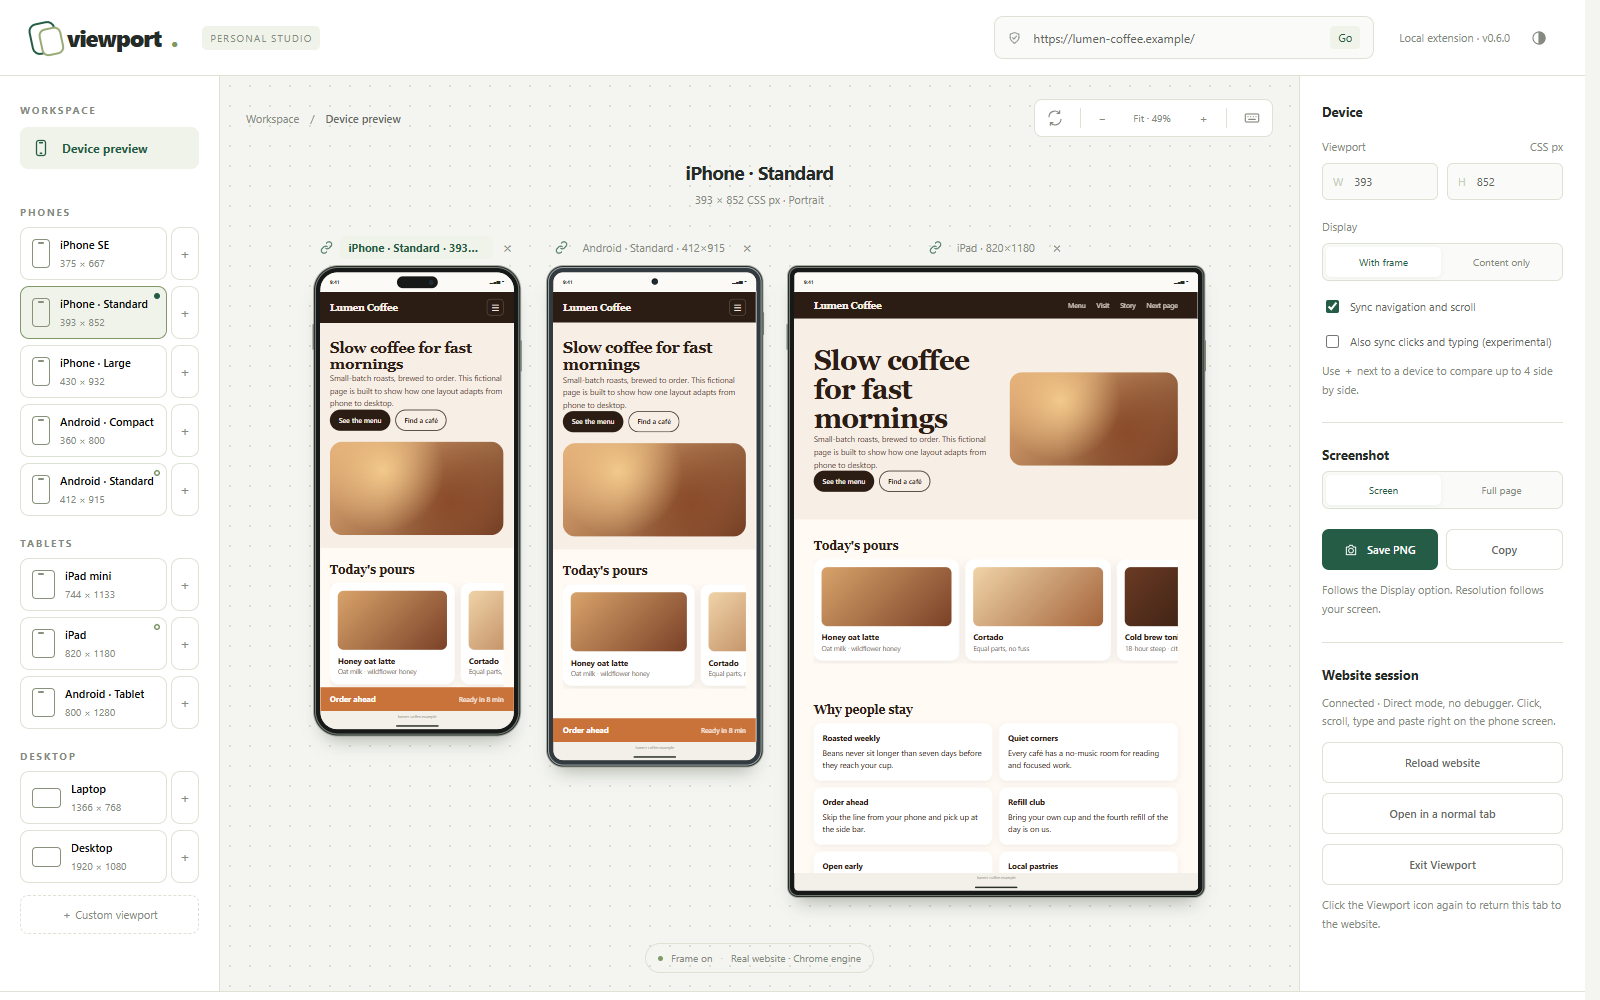
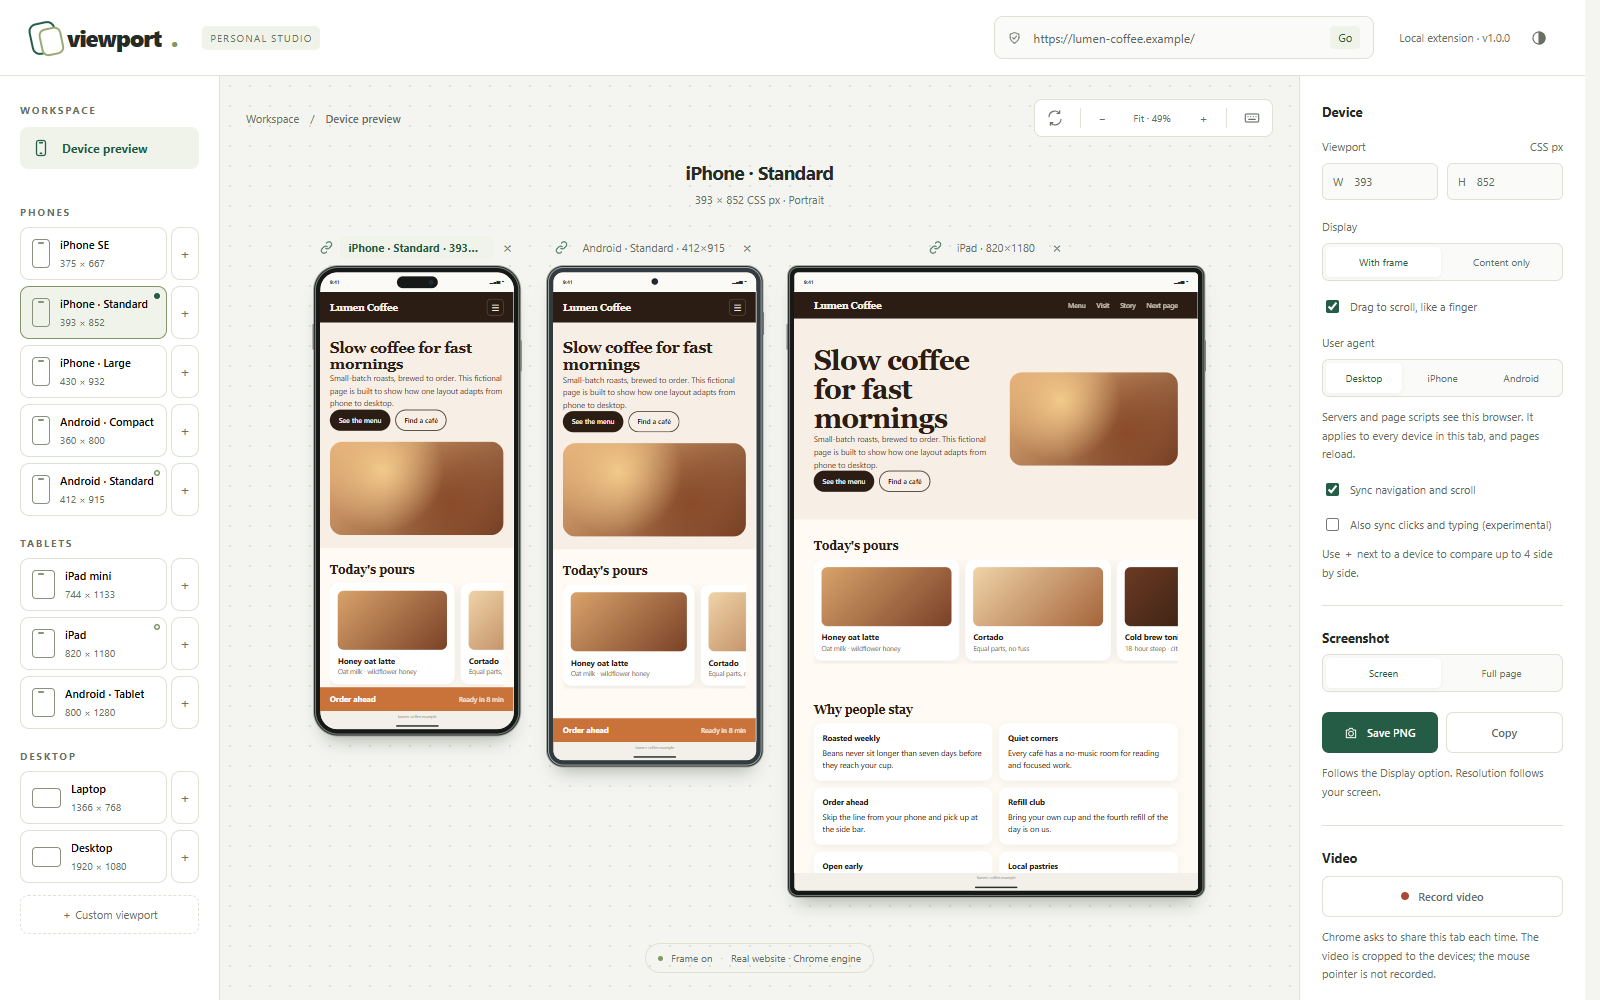
Viewport 1.0.0: review fixes, accessibility, docs

Changed region(s): [[0.8125, 0.341, 0.9688, 0.992], [0.8438, 0.279, 0.9062, 0.31], [0.8125, 0.837, 0.8438, 0.868]]

diff --git a/extension/studio.css b/extension/studio.css
@@ -1,8 +1,8 @@
 /* Theme tokens. Auto follows the system; Studio can force light or dark via data-theme. */
-:root{--bg:#f4f5f1;--panel:#fff;--glass:#ffffffb3;--field:#fafbf8;--soft:#f0f3e9;--line-base:#e4e7df;--line:#dce2d4;--dots:#d9ded1;--faint:#c5cdbb;--muted:#858a80;--muted-base:#858a80;--text-2:#5f675d;--text-base:#252b27;--green-ink:#245c45;--danger:#ac4836;--accent:#81976a;--icon:#87917c;color-scheme:light}
+:root{--bg:#f4f5f1;--panel:#fff;--glass:#ffffffb3;--field:#fafbf8;--soft:#f0f3e9;--line-base:#e4e7df;--line:#dce2d4;--dots:#d9ded1;--faint:#c5cdbb;--muted:#687064;--muted-base:#687064;--text-2:#5f675d;--text-base:#252b27;--green-ink:#245c45;--danger:#ac4836;--accent:#81976a;--icon:#87917c;color-scheme:light}
 @media(prefers-color-scheme:dark){:root:not([data-theme=light]){--bg:#131715;--panel:#1b201d;--glass:#1b201db3;--field:#202622;--soft:#26302a;--line-base:#2c3430;--line:#343d37;--dots:#29302c;--faint:#58625a;--muted:#8f998a;--muted-base:#8f998a;--text-2:#b9c3b2;--text-base:#e5eae1;--green-ink:#9ccfaa;--danger:#ef8a74;--accent:#7f9f69;--icon:#8d9786;color-scheme:dark}}
 :root[data-theme=dark]{--bg:#131715;--panel:#1b201d;--glass:#1b201db3;--field:#202622;--soft:#26302a;--line-base:#2c3430;--line:#343d37;--dots:#29302c;--faint:#58625a;--muted:#8f998a;--muted-base:#8f998a;--text-2:#b9c3b2;--text-base:#e5eae1;--green-ink:#9ccfaa;--danger:#ef8a74;--accent:#7f9f69;--icon:#8d9786;color-scheme:dark}
-:root{font-family:system-ui,-apple-system,'Segoe UI',Roboto,sans-serif;color:var(--text-base);background:var(--bg);font-synthesis:none;--green:#245c45}*{box-sizing:border-box}body{margin:0}button,input,select{font:inherit}button,select{cursor:pointer}button{border:0}button:focus-visible,select:focus-visible,input:focus-visible{outline:3px solid #8dac69;outline-offset:3px}button:disabled{opacity:.45;cursor:not-allowed}.app{min-height:100vh;display:grid;grid-template-rows:76px 1fr 38px}header{display:flex;align-items:center;padding:0 30px;gap:25px;background:var(--panel);border-bottom:1px solid var(--line)}.brand{font-size:23px;font-weight:800;letter-spacing:-1px;display:flex;align-items:center;gap:10px}.mark{width:27px;height:32px;border:2px solid var(--green-ink);border-radius:8px;transform:rotate(-12deg);position:relative}.mark:after{content:'';position:absolute;inset:5px -7px -5px 7px;border:2px solid #99aa75;border-radius:7px;background:var(--panel);z-index:-1}.tag{font-size:10px;text-transform:uppercase;letter-spacing:1.1px;padding:5px 8px;border-radius:5px;background:var(--soft);color:var(--muted);white-space:nowrap}.address{margin-left:auto;display:flex;align-items:center;gap:10px;border:1px solid var(--line);border-radius:9px;background:var(--field);padding:9px 13px;width:380px;color:var(--muted)}.address input{border:0;background:transparent;min-width:0;width:100%;outline:none;color:var(--text-2);font-size:12px}.top-note{font-size:11px;color:var(--muted)}main{display:grid;grid-template-columns:220px minmax(380px,1fr) 286px}.sidebar,.inspector{background:var(--panel);padding:27px 20px}.sidebar{border-right:1px solid var(--line)}.eyebrow{font-size:10px;font-weight:700;letter-spacing:1.8px;color:var(--muted);text-transform:uppercase}.navitem{display:flex;align-items:center;gap:12px;width:100%;padding:12px;margin-top:10px;text-align:left;border-radius:8px;background:transparent;color:var(--muted);font-size:12px}.navitem.active{background:var(--soft);color:var(--green-ink);font-weight:700}.navitem svg{width:18px;height:18px}.section{margin-top:36px}.devices{display:grid;gap:9px;margin-top:15px}.device{display:flex;gap:12px;align-items:center;padding:9px 11px;border:1px solid var(--line);background:var(--panel);border-radius:9px;text-align:left}.device.selected{border-color:var(--accent);background:var(--soft);box-shadow:0 0 0 1px var(--accent)33}.device-icon{border:1.5px solid var(--icon);border-radius:4px;width:18px;height:29px;position:relative}.device-icon:before{content:'';position:absolute;width:6px;height:2px;background:var(--icon);top:2px;left:4.5px;border-radius:2px}.device b{font-size:11px;font-weight:600;display:block}.device small{font-size:10px;color:var(--muted);display:block;margin-top:4px}.device.selected:after,.device.in-use:after{content:'';position:absolute;top:6px;right:6px;width:6px;height:6px;border-radius:50%;background:var(--green-ink)}.device.in-use:after{background:transparent;box-shadow:inset 0 0 0 1.5px var(--accent)}.custom{background:var(--panel);border:1px dashed var(--line);border-radius:8px;width:100%;padding:11px;color:var(--muted);font-size:11px;margin-top:12px}.canvas{position:relative;overflow:hidden;background:radial-gradient(circle,var(--dots) 1px,transparent 1px);background-size:20px 20px;display:flex;flex-direction:column;align-items:center;padding:23px 26px 18px}.canvas-head{width:100%;display:flex;align-items:center;justify-content:space-between;gap:12px}.breadcrumbs{font-size:11px;color:var(--muted)}.breadcrumbs b{color:var(--text-2);font-weight:500}.view-controls{display:flex;gap:5px;background:var(--panel);padding:4px;border:1px solid var(--line);border-radius:8px}.icon-btn{background:transparent;border-radius:5px;color:var(--muted);padding:6px 8px;display:flex;align-items:center;gap:6px;font-size:11px}.icon-btn:hover{background:var(--soft)}svg{width:16px;height:16px;fill:none;stroke:currentColor;stroke-width:1.7;stroke-linecap:round;stroke-linejoin:round}.canvas-title{margin:22px 0 0;text-align:center}.canvas-title h1{font-size:19px;letter-spacing:-.6px;margin:0;font-weight:700}.canvas-title p{font-size:11px;color:var(--muted);margin:7px 0 14px}.phone-space{flex:1;display:flex;align-items:center;justify-content:center;width:100%;min-height:575px}.phone{width:288px;height:574px;border-radius:47px;background:#161918;border:2px solid #737a72;padding:9px;box-shadow:0 0 0 2px #272c29,0 0 0 4px #a5aaa1,0 26px 38px -17px #39413066;position:relative;transition:width .25s,height .25s,transform .25s;flex-shrink:0}.phone:before{content:'';position:absolute;left:-7px;top:114px;width:3px;height:52px;border-radius:3px;background:#71796c}.phone:after{content:'';position:absolute;right:-7px;top:147px;width:3px;height:63px;border-radius:3px;background:#71796c}.screen{height:100%;border-radius:35px;background:#fcfaf6;overflow:hidden;position:relative;display:flex;flex-direction:column}.statusbar{height:39px;flex-shrink:0;padding:12px 19px 0;display:flex;justify-content:space-between;align-items:flex-start;font-size:10px;font-weight:700;background:#fcfaf6;position:relative}.island{position:absolute;top:8px;left:50%;transform:translateX(-50%);width:83px;height:24px;background:#161918;border-radius:20px}.island:after{content:'';position:absolute;right:9px;top:8px;width:7px;height:7px;background:#1c2a37;border-radius:50%;border:1px solid #29343b}.site{overflow:auto;flex:1;scrollbar-width:none}.site::-webkit-scrollbar{display:none}.browserbar{height:37px;background:#f2f0e9;padding:5px 23px 10px;flex-shrink:0;text-align:center;font-size:8px;color:#93958a;position:relative}.browserbar:after{position:absolute;content:'';width:86px;height:3px;background:#272e26;border-radius:5px;bottom:5px;left:50%;transform:translateX(-50%)}.phone.landscape{width:510px;height:285px}.phone.landscape .island{width:65px}.canvas-foot{display:flex;align-items:center;gap:8px;font-size:10px;color:var(--muted);margin-top:17px;background:var(--panel)fffb3;padding:7px 12px;border:1px solid var(--line);border-radius:20px}.live-dot{width:5px;height:5px;border-radius:50%;background:#7e9b66}.inspector{border-left:1px solid var(--line);padding:27px 22px}.panel-title{font-size:13px;font-weight:700;margin:0 0 8px}.divider{height:1px;background:var(--line);margin:23px 0}.field-label{font-size:11px;color:var(--muted);display:flex;justify-content:space-between;margin:19px 0 9px}.field-row{display:flex;gap:9px}.field{background:var(--field);border:1px solid var(--line);border-radius:6px;display:flex;align-items:center;gap:9px;padding:9px 10px;min-width:0;flex:1;font-size:11px;color:var(--faint)}.field input{width:100%;min-width:0;border:0;background:none;font-size:11px;color:var(--text-2)}.segment{display:flex;padding:3px;border:1px solid var(--line);border-radius:7px;background:var(--field);gap:3px}.segment button{flex:1;padding:8px 4px;font-size:10px;color:var(--muted);background:transparent;border-radius:5px}.segment button.chosen{background:var(--panel);box-shadow:0 1px 4px #35402512;color:var(--green-ink)}.action{display:flex;align-items:center;justify-content:center;gap:9px;width:100%;padding:12px;border-radius:7px;font-size:11px;font-weight:600;margin-top:10px}.action.primary{background:var(--green);color:#fff}.action.secondary{background:var(--panel);border:1px solid var(--line);color:var(--text-2)}footer{background:var(--panel);border-top:1px solid var(--line);display:flex;align-items:center;justify-content:space-between;padding:0 25px;font-size:10px;color:var(--muted)}.footer-left{display:flex;align-items:center;gap:8px}.plain{background:transparent;border:0;box-shadow:none;padding:0;border-radius:0}.plain:before,.plain:after,.plain .statusbar,.plain .browserbar{display:none}.plain .screen{border-radius:0}@media(max-width:1100px){main{grid-template-columns:185px minmax(330px,1fr) 250px}.sidebar,.inspector{padding:24px 15px}header{padding:0 20px}.top-note{display:none}.canvas{padding:20px 16px}.breadcrumbs{display:none}.canvas-head{justify-content:center}.phone.landscape{width:340px}}@media(max-width:800px){main{grid-template-columns:1fr 250px}.sidebar{display:none}.address{width:250px}.tag{display:none}.brand{font-size:20px}.canvas-title h1{font-size:16px}}@media(max-width:600px){main{display:flex;flex-direction:column}.inspector{border-left:0;border-top:1px solid var(--line)}header{height:auto;min-height:76px;flex-wrap:wrap;padding:15px;gap:12px}.app{grid-template-rows:auto 1fr 45px}.address{width:auto;flex:1}.canvas{padding:20px}.canvas-title{margin-top:17px}.inspector{padding:25px}.inspector .divider{margin:18px 0}footer{padding:0 12px;font-size:9px;gap:12px}.footer-right{display:none}}@media(prefers-reduced-motion:reduce){*{animation:none!important;transition:none!important}}
+:root{font-family:system-ui,-apple-system,'Segoe UI',Roboto,sans-serif;color:var(--text-base);background:var(--bg);font-synthesis:none;--green:#245c45}*{box-sizing:border-box}body{margin:0}button,input,select{font:inherit}button,select{cursor:pointer}button{border:0}button:focus-visible,select:focus-visible,input:focus-visible{outline:3px solid #8dac69;outline-offset:3px}button:disabled{opacity:.45;cursor:not-allowed}.app{min-height:100vh;display:grid;grid-template-rows:76px 1fr 38px}header{display:flex;align-items:center;padding:0 30px;gap:25px;background:var(--panel);border-bottom:1px solid var(--line)}.brand{font-size:23px;font-weight:800;letter-spacing:-1px;display:flex;align-items:center;gap:10px}.mark{width:27px;height:32px;border:2px solid var(--green-ink);border-radius:8px;transform:rotate(-12deg);position:relative}.mark:after{content:'';position:absolute;inset:5px -7px -5px 7px;border:2px solid #99aa75;border-radius:7px;background:var(--panel);z-index:-1}.tag{font-size:10px;text-transform:uppercase;letter-spacing:1.1px;padding:5px 8px;border-radius:5px;background:var(--soft);color:var(--muted);white-space:nowrap}.address{margin-left:auto;display:flex;align-items:center;gap:10px;border:1px solid var(--line);border-radius:9px;background:var(--field);padding:9px 13px;width:380px;color:var(--muted)}.address input{border:0;background:transparent;min-width:0;width:100%;outline:none;color:var(--text-2);font-size:12px}.top-note{font-size:11px;color:var(--muted)}main{display:grid;grid-template-columns:220px minmax(380px,1fr) 286px}.sidebar,.inspector{background:var(--panel);padding:27px 20px}.sidebar{border-right:1px solid var(--line)}.eyebrow{font-size:10px;font-weight:700;letter-spacing:1.8px;color:var(--muted);text-transform:uppercase}.navitem{display:flex;align-items:center;gap:12px;width:100%;padding:12px;margin-top:10px;text-align:left;border-radius:8px;background:transparent;color:var(--muted);font-size:12px}.navitem.active{background:var(--soft);color:var(--green-ink);font-weight:700}.navitem svg{width:18px;height:18px}.section{margin-top:36px}.devices{display:grid;gap:9px;margin-top:15px}.device{display:flex;gap:12px;align-items:center;padding:9px 11px;border:1px solid var(--line);background:var(--panel);border-radius:9px;text-align:left}.device.selected{border-color:var(--accent);background:var(--soft);box-shadow:0 0 0 1px var(--accent)33}.device-icon{border:1.5px solid var(--icon);border-radius:4px;width:18px;height:29px;position:relative}.device-icon:before{content:'';position:absolute;width:6px;height:2px;background:var(--icon);top:2px;left:4.5px;border-radius:2px}.device b{font-size:11px;font-weight:600;display:block}.device small{font-size:10px;color:var(--muted);display:block;margin-top:4px}.device.selected:after,.device.in-use:after{content:'';position:absolute;top:6px;right:6px;width:6px;height:6px;border-radius:50%;background:var(--green-ink)}.device.in-use:after{background:transparent;box-shadow:inset 0 0 0 1.5px var(--accent)}.custom{background:var(--panel);border:1px dashed var(--line);border-radius:8px;width:100%;padding:11px;color:var(--muted);font-size:11px;margin-top:12px}.canvas{position:relative;overflow:hidden;background:radial-gradient(circle,var(--dots) 1px,transparent 1px);background-size:20px 20px;display:flex;flex-direction:column;align-items:center;padding:23px 26px 18px}.canvas-head{width:100%;display:flex;align-items:center;justify-content:space-between;gap:12px}.breadcrumbs{font-size:11px;color:var(--muted)}.breadcrumbs b{color:var(--text-2);font-weight:500}.view-controls{display:flex;gap:5px;background:var(--panel);padding:4px;border:1px solid var(--line);border-radius:8px}.icon-btn{background:transparent;border-radius:5px;color:var(--muted);padding:6px 8px;display:flex;align-items:center;gap:6px;font-size:11px}.icon-btn:hover{background:var(--soft)}svg{width:16px;height:16px;fill:none;stroke:currentColor;stroke-width:1.7;stroke-linecap:round;stroke-linejoin:round}.canvas-title{margin:22px 0 0;text-align:center}.canvas-title h1{font-size:19px;letter-spacing:-.6px;margin:0;font-weight:700}.canvas-title p{font-size:11px;color:var(--muted);margin:7px 0 14px}.phone-space{flex:1;display:flex;align-items:center;justify-content:center;width:100%;min-height:575px}.phone{width:288px;height:574px;border-radius:47px;background:#161918;border:2px solid #737a72;padding:9px;box-shadow:0 0 0 2px #272c29,0 0 0 4px #a5aaa1,0 26px 38px -17px #39413066;position:relative;transition:width .25s,height .25s,transform .25s;flex-shrink:0}.phone:before{content:'';position:absolute;left:-7px;top:114px;width:3px;height:52px;border-radius:3px;background:#71796c}.phone:after{content:'';position:absolute;right:-7px;top:147px;width:3px;height:63px;border-radius:3px;background:#71796c}.screen{height:100%;border-radius:35px;background:#fcfaf6;overflow:hidden;position:relative;display:flex;flex-direction:column}.statusbar{height:39px;flex-shrink:0;padding:12px 19px 0;display:flex;justify-content:space-between;align-items:flex-start;font-size:10px;font-weight:700;background:#fcfaf6;position:relative}.island{position:absolute;top:8px;left:50%;transform:translateX(-50%);width:83px;height:24px;background:#161918;border-radius:20px}.island:after{content:'';position:absolute;right:9px;top:8px;width:7px;height:7px;background:#1c2a37;border-radius:50%;border:1px solid #29343b}.site{overflow:auto;flex:1;scrollbar-width:none}.site::-webkit-scrollbar{display:none}.browserbar{height:37px;background:#f2f0e9;padding:5px 23px 10px;flex-shrink:0;text-align:center;font-size:8px;color:#93958a;position:relative}.browserbar:after{position:absolute;content:'';width:86px;height:3px;background:#272e26;border-radius:5px;bottom:5px;left:50%;transform:translateX(-50%)}.phone.landscape{width:510px;height:285px}.phone.landscape .island{width:65px}.canvas-foot{display:flex;align-items:center;gap:8px;font-size:10px;color:var(--muted);margin-top:17px;background:var(--panel)fffb3;padding:7px 12px;border:1px solid var(--line);border-radius:20px}.live-dot{width:5px;height:5px;border-radius:50%;background:#7e9b66}.inspector{border-left:1px solid var(--line);padding:27px 22px}.panel-title{font-size:13px;font-weight:700;margin:0 0 8px}.divider{height:1px;background:var(--line);margin:23px 0}.field-label{font-size:11px;color:var(--muted);display:flex;justify-content:space-between;margin:19px 0 9px}.field-row{display:flex;gap:9px}.field{background:var(--field);border:1px solid var(--line);border-radius:6px;display:flex;align-items:center;gap:9px;padding:9px 10px;min-width:0;flex:1;font-size:11px;color:var(--muted)}.field input{width:100%;min-width:0;border:0;background:none;font-size:11px;color:var(--text-2)}.segment{display:flex;padding:3px;border:1px solid var(--line);border-radius:7px;background:var(--field);gap:3px}.segment button{flex:1;padding:8px 4px;font-size:10px;color:var(--muted);background:transparent;border-radius:5px}.segment button.chosen{background:var(--panel);box-shadow:0 1px 4px #35402512;color:var(--green-ink)}.action{display:flex;align-items:center;justify-content:center;gap:9px;width:100%;padding:12px;border-radius:7px;font-size:11px;font-weight:600;margin-top:10px}.action.primary{background:var(--green);color:#fff}.action.secondary{background:var(--panel);border:1px solid var(--line);color:var(--text-2)}footer{background:var(--panel);border-top:1px solid var(--line);display:flex;align-items:center;justify-content:space-between;padding:0 25px;font-size:10px;color:var(--muted)}.footer-left{display:flex;align-items:center;gap:8px}.plain{background:transparent;border:0;box-shadow:none;padding:0;border-radius:0}.plain:before,.plain:after,.plain .statusbar,.plain .browserbar{display:none}.plain .screen{border-radius:0}@media(max-width:1100px){main{grid-template-columns:185px minmax(330px,1fr) 250px}.sidebar,.inspector{padding:24px 15px}header{padding:0 20px}.top-note{display:none}.canvas{padding:20px 16px}.breadcrumbs{display:none}.canvas-head{justify-content:center}.phone.landscape{width:340px}}@media(max-width:800px){main{grid-template-columns:1fr 250px}.sidebar{display:none}.address{width:250px}.tag{display:none}.brand{font-size:20px}.canvas-title h1{font-size:16px}}@media(max-width:600px){main{display:flex;flex-direction:column}.inspector{border-left:0;border-top:1px solid var(--line)}header{height:auto;min-height:76px;flex-wrap:wrap;padding:15px;gap:12px}.app{grid-template-rows:auto 1fr 45px}.address{width:auto;flex:1}.canvas{padding:20px}.canvas-title{margin-top:17px}.inspector{padding:25px}.inspector .divider{margin:18px 0}footer{padding:0 12px;font-size:9px;gap:12px}.footer-right{display:none}}@media(prefers-reduced-motion:reduce){*{animation:none!important;transition:none!important}}
 /* Device geometry uses CSS viewport dimensions; preview scaling is separate. */
 /* Devices sit side by side; each slot-body reserves the scaled size, the phone inside is scaled from its corner. */
 .phone-space{position:relative;display:flex;flex:none;align-items:flex-start;justify-content:safe center;width:100%;min-height:0;overflow-x:auto;overflow-y:hidden;padding:14px 16px 30px}
@@ -52,7 +52,7 @@ html{scrollbar-gutter:stable}
 .slot-close{background:none;color:var(--muted);font-size:15px;line-height:1;padding:4px 7px;border-radius:6px}
 .slot-link{display:flex;align-items:center;background:none;color:var(--green-ink);padding:4px 5px;border-radius:6px}
 .slot-link svg{width:13px;height:13px}
-.slot.unlinked .slot-link{color:var(--faint)}
+.slot.unlinked .slot-link{color:var(--muted)}
 .slot.unlinked .slot-name{text-decoration:line-through dotted var(--faint)}
 .slot-close:hover,.slot-name:hover,.slot-link:hover{background:var(--soft)}
 .slot-body{position:relative;flex:none;transition:width .25s,height .25s}

diff --git a/extension/background.js b/extension/background.js
@@ -18,6 +18,10 @@ async function frame(tabId, install, agent = 'desktop') {
   const used = new Set(rules.map(rule => rule.id).filter(id => !mine.includes(id))), ids = [];
   for (let id = 1; install && ids.length < ruleCount(agent); id++) if (!used.has(id)) ids.push(id);
   if (mine.length || install) await chrome.declarativeNetRequest.updateSessionRules({ removeRuleIds: mine, addRules: install ? framingRules(tabId, ids, agent, CHROME_MAJOR) : [] });
+  // ponytail: under load the first request after an update can still leave with the old user agent
+  // (request headers are matched as the request starts; framing rules act later, on the response).
+  // A short settle covers it; confirm with testMatchOutcome if it ever shows up again.
+  if (install && ruleCount(agent) === 3) await new Promise(resolve => setTimeout(resolve, 200));
 }
 const unframe = tabId => frame(tabId, false);
 async function isStudio(tabId) {

diff --git a/extension/studio.js b/extension/studio.js
@@ -131,6 +131,7 @@ function geometry(bounds) {
     link.setAttribute('aria-pressed', String(slot.linked)); link.title = t(slot.linked ? 'linkOn' : 'linkOff'); link.setAttribute('aria-label', link.title);
     const name = slot.element.querySelector('.slot-name');
     name.textContent = name.title = `${describe(slot.key).name} · ${slot.size.width}×${slot.size.height}`;
+    slot.iframe.title = `${t('frameTitle')}: ${name.textContent}`;
   });
   const slot = focused(), landscape = slot.size.width > slot.size.height;
   $('#device-title').textContent = describe(slot.key).name;

diff --git a/ROADMAP.md b/ROADMAP.md
@@ -4,21 +4,18 @@ This is the planned work, not a promise. Pick an item, open an issue to discuss 
 
 ## Next
 
-- **1.0 review.** A full pass over code, docs and accessibility before calling it stable.
-
-## Later
-
 - **Agent connection.** Let local coding agents (Claude Code, Codex) inspect or drive the preview through MCP.
 - **Firefox support.**
 - **Rotation animation.**
-- **Per-device user agent.** Chrome's request rules can target a tab but not a single frame, so today every device in the Studio shares one agent.
 
 ## On hold
 
+- **Per-device user agent.** Chrome's request rules can target a tab but not a single frame, so today every device in the Studio shares one agent.
 - **Accurate mode (touch, device pixel ratio via `chrome.debugger`).** Chrome does not allow `debugger` as an optional permission, so shipping it would put the debugger warning on every install, even for people who never use it. It could live in a separate build.
 
 ## Done
 
+- 1.0.0: first stable release after a code, docs and accessibility review.
 - 0.9.0: video recording cropped to the devices, without new permissions.
 - 0.8.0: drag to scroll, browser tests in the repo and in CI.
 - 0.7.0: mobile user agent (header, client hints and page scripts), full-press click replay.

diff --git a/CHANGELOG.md b/CHANGELOG.md
@@ -1,5 +1,15 @@
 # Changelog
 
+## 1.0.0
+
+First stable release, after a full review of code, docs and accessibility.
+
+- Small grey text in the light theme now meets WCAG AA contrast, and so do the W/H field labels and the unlinked-device icon.
+- Each device frame has its own accessible name (device and size), so screen readers can tell them apart.
+- Fixed: after switching the user agent, the first page load could reach the server with the old agent under heavy load, while page scripts already saw the new one.
+- Removed the unused v0.2 test fixture and the original design mockup (both remain in git history).
+- README images show the current studio.
+
 ## 0.9.0
 
 - Video recording (shortcut `V`): the tab records itself through Chrome's share-this-tab prompt, and Region Capture crops the video to the selected device, or to the row of devices. MP4 when Chrome can encode it, WebM otherwise. No new permission.
